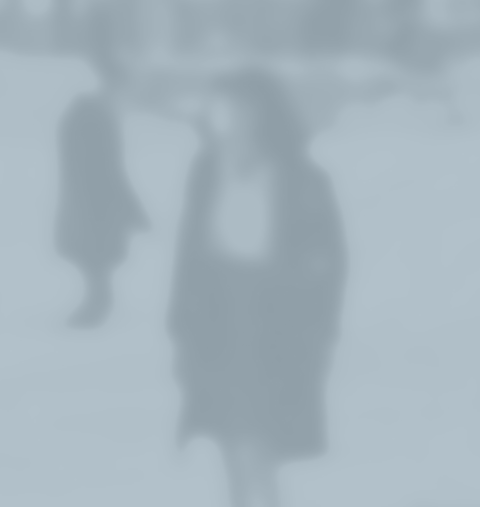
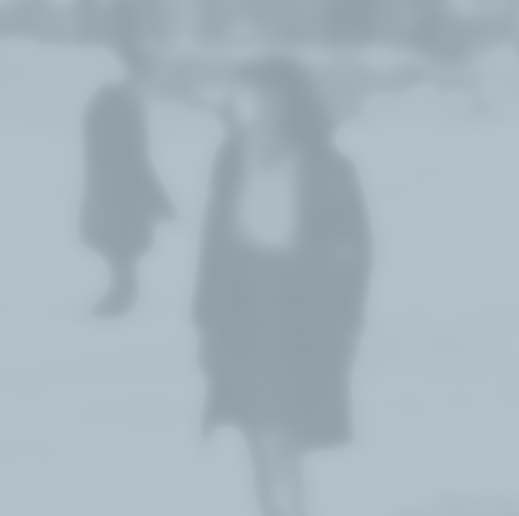
Updating card image handling

diff --git a/css/discovery.css b/css/discovery.css
@@ -4826,8 +4826,11 @@ main.loiBornDigital.loiAbout div#text div[data-el=body] div[data-el=p] {
 
 .loi-edition .discovery-card-image {
   inline-size: 100%;
-  block-size: 18rem;
-  object-fit: contain;
+  aspect-ratio: 1 / 1;
+  block-size: auto;
+  margin-block-start: auto;
+  display: block;
+  object-fit: cover;
 }
 
 @media (min-width: 48rem) {
